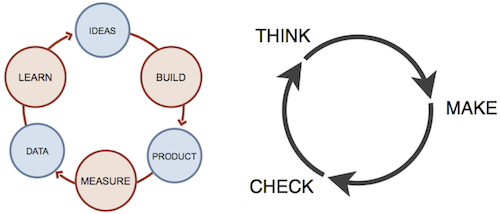
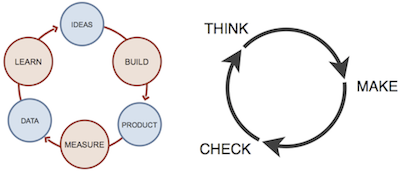
fixed image sizes

diff --git a/Speical - UX Bootcamp/ux_bootcamp_2014.08.13.md b/Speical - UX Bootcamp/ux_bootcamp_2014.08.13.md
@@ -42,7 +42,7 @@ Thomas Wendt
 	* UX Design can be completely independent of medium, doesn't have to be tied to websites or apps. 
 	* Elements of User Experience Graph
 	
-		![elements of user experience](ElementsOfUserExperience-Planes.jpg =300x)
+		![elements of user experience](ElementsOfUserExperience-Planes.jpg)
 		
 * Experiential Disciplines
 	* Psychology
@@ -148,7 +148,7 @@ Thomas Wendt
 	* Rich background in academia and business
 	* Emphasizes finding a problem, coming up with solutions, then test if solutions are appropriate
 	
-	![design thinking](hex_design-1.jpeg =400x)
+	![design thinking](hex_design-1.jpeg)
 	
 ---
 	
